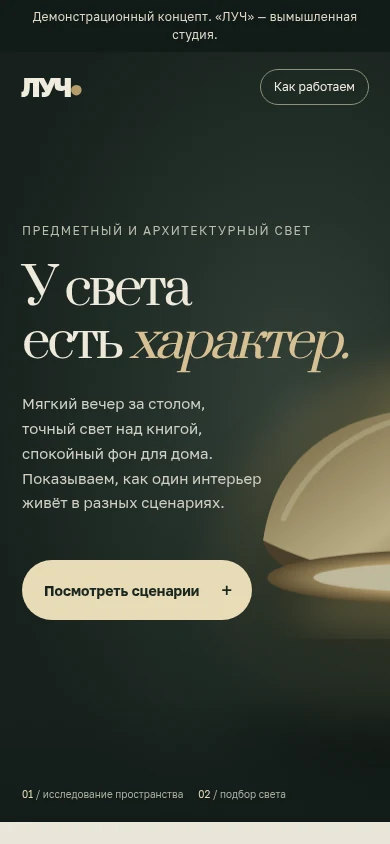
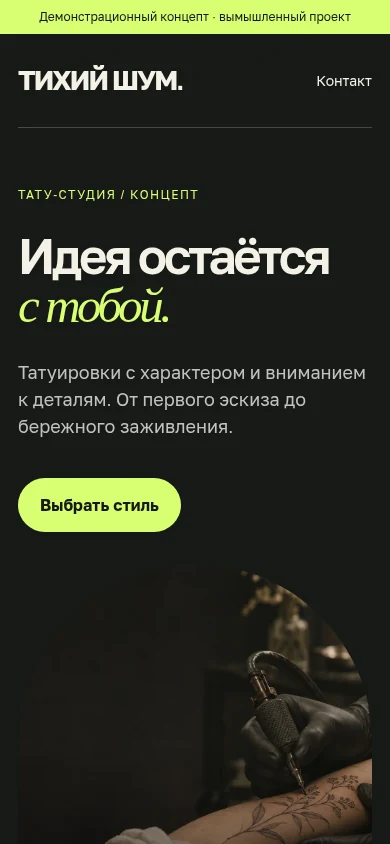
Showcase tattoo and detailing concepts

diff --git a/index.html b/index.html
@@ -51,20 +51,18 @@
     </section>
 
     <section class="work-section" id="works" aria-labelledby="works-title">
-      <div class="shell work-heading"><div><p class="section-index">Два проекта</p><h2 id="works-title">Откройте и<br>покликайте<span class="period">.</span></h2></div><p>Два проекта с разным характером. Оба можно открыть, прокликать и посмотреть с телефона. Это авторские концепты для портфолио.</p></div>
+      <div class="shell work-heading"><div><p class="section-index">Два проекта</p><h2 id="works-title">Откройте и<br>покликайте<span class="period">.</span></h2></div><p>Два проекта с разным характером. Оба можно открыть, прокликать и посмотреть с телефона. Это авторские концепты для портфолио; изображения созданы для демонстрации.</p></div>
       <div class="shell project-list">
         <article class="project project-one" aria-labelledby="project-one-title">
-          <div class="project-visual visual-one"><div class="browser"><div class="browser-top"><span class="browser-dots" aria-hidden="true"><i></i><i></i><i></i></span><span>демонстрационный проект</span><span class="browser-arrow" aria-hidden="true">↗</span></div><img src="assets/project-one-desktop.webp" width="1200" height="780" alt="Главный экран авторского концепта «ЛУЧ»"></div><div class="phone"><div class="phone-notch" aria-hidden="true"></div><img src="assets/project-one-mobile.webp" width="390" height="844" alt="Мобильная версия концепта «ЛУЧ»"></div></div>
-          <div class="project-copy"><span class="project-number">01 / Авторский концепт</span><h3 id="project-one-title">ЛУЧ</h3><p class="project-lead">Предметная витрина для студии света.</p><p class="project-detail">Сценарии освещения можно переключать прямо на странице. Тёплая типографика и предметная подача помогают рассмотреть коллекцию.</p><div class="project-meta"><span>Роль: структура, дизайн, вёрстка</span><span>HTML · CSS · JavaScript</span></div><a class="project-link" href="projects/studio-light/" target="_blank" rel="noopener noreferrer">Открыть работающий сайт <span aria-hidden="true">↗</span></a></div>
+          <div class="project-visual visual-one"><div class="browser"><div class="browser-top"><span class="browser-dots" aria-hidden="true"><i></i><i></i><i></i></span><span>демонстрационный проект</span><span class="browser-arrow" aria-hidden="true">↗</span></div><img src="assets/project-one-desktop.webp" width="1200" height="780" alt="Главный экран авторского концепта «ТИХИЙ ШУМ»"></div><div class="phone"><div class="phone-notch" aria-hidden="true"></div><img src="assets/project-one-mobile.webp" width="390" height="844" alt="Мобильная версия концепта «ТИХИЙ ШУМ»"></div></div>
+          <div class="project-copy"><span class="project-number">01 / Авторский концепт</span><h3 id="project-one-title">ТИХИЙ ШУМ</h3><p class="project-lead">Сайт для тату-студии.</p><p class="project-detail">Страница знакомит со студией и направлениями, помогает выбрать стиль и перейти к обсуждению идеи.</p><div class="project-meta"><span>Роль: структура, дизайн, вёрстка</span><span>HTML · CSS · JavaScript</span></div><a class="project-link" href="projects/atelier-ink/" target="_blank" rel="noopener noreferrer">Открыть работающий сайт <span aria-hidden="true">↗</span></a></div>
         </article>
         <article class="project project-two" aria-labelledby="project-two-title">
-          <div class="project-visual visual-two"><div class="browser"><div class="browser-top"><span class="browser-dots" aria-hidden="true"><i></i><i></i><i></i></span><span>демонстрационный проект</span><span class="browser-arrow" aria-hidden="true">↗</span></div><img src="assets/project-two-desktop.webp" width="1200" height="780" alt="Главный экран авторского концепта «РИСО»"></div><div class="phone"><div class="phone-notch" aria-hidden="true"></div><img src="assets/project-two-mobile.webp" width="390" height="844" alt="Мобильная версия концепта «РИСО»"></div></div>
-          <div class="project-copy"><span class="project-number">02 / Авторский концепт</span><h3 id="project-two-title">РИСО</h3><p class="project-lead">Графичная страница мастерской арт-печати и постеров.</p><p class="project-detail">Интерактивная галерея позволяет выбрать и рассмотреть работу. Контрастная визуальная система подходит предмету и не повторяет первый проект.</p><div class="project-meta"><span>Роль: структура, дизайн, вёрстка</span><span>HTML · CSS · JavaScript</span></div><a class="project-link" href="projects/poster-studio/" target="_blank" rel="noopener noreferrer">Открыть работающий сайт <span aria-hidden="true">↗</span></a></div>
+          <div class="project-visual visual-two"><div class="browser"><div class="browser-top"><span class="browser-dots" aria-hidden="true"><i></i><i></i><i></i></span><span>демонстрационный проект</span><span class="browser-arrow" aria-hidden="true">↗</span></div><img src="assets/project-two-desktop.webp" width="1200" height="780" alt="Главный экран авторского концепта «ФОРМА»"></div><div class="phone"><div class="phone-notch" aria-hidden="true"></div><img src="assets/project-two-mobile.webp" width="390" height="844" alt="Мобильная версия концепта «ФОРМА»"></div></div>
+          <div class="project-copy"><span class="project-number">02 / Авторский концепт</span><h3 id="project-two-title">ФОРМА</h3><p class="project-lead">Сайт для студии детейлинга.</p><p class="project-detail">Услуги разделены по направлениям, чтобы посетитель мог быстро найти подходящий уход за автомобилем.</p><div class="project-meta"><span>Роль: структура, дизайн, вёрстка</span><span>HTML · CSS · JavaScript</span></div><a class="project-link" href="projects/drive-care/" target="_blank" rel="noopener noreferrer">Открыть работающий сайт <span aria-hidden="true">↗</span></a></div>
         </article>
       </div>
     </section>
-
-    <section class="detail-section" aria-labelledby="detail-title"><div class="shell detail-inner"><div class="detail-copy"><p class="section-index">За кадром</p><h2 id="detail-title">Детали можно проверить<span class="period">.</span></h2><p>В «ЛУЧ» меняются три сценария освещения: для чтения, ужина и отдыха. В «РИСО» можно отфильтровать постеры и раскрыть каждый из них. Оба проекта работают на телефоне.</p><div class="detail-links"><a href="projects/studio-light/#scenes" target="_blank" rel="noopener noreferrer">Проверить свет <span aria-hidden="true">↗</span></a><a href="projects/poster-studio/#works" target="_blank" rel="noopener noreferrer">Открыть галерею <span aria-hidden="true">↗</span></a></div></div><div class="detail-previews"><img class="detail-img detail-luch" src="assets/luch-detail.webp" width="680" height="600" alt="Сценарий освещения в концепте «ЛУЧ»"><img class="detail-img detail-riso" src="assets/riso-detail.webp" width="680" height="600" alt="Галерея постеров в концепте «РИСО»"></div></div></section>
 
     <section class="about-section" id="about" aria-labelledby="about-title"><div class="shell about-layout"><div class="about-heading"><p class="section-index">Обо мне</p><h2 id="about-title">Привет, я<br>levvxff<span class="period">.</span></h2><p class="about-experience"><strong>3 года</strong><span>в разработке</span></p></div><div class="about-copy"><p class="about-lead">Создаю сайты и небольших Telegram-ботов для проектов, которым важно понятно рассказать о себе и быть на связи с клиентами.</p><p>До оформления разбираюсь в задаче: что человек ищет на странице, какие вопросы у него возникнут и как ему удобнее написать или записаться.</p><div class="about-offer"><div><h3>Сайт под задачу</h3><p>Структура, визуальное оформление и адаптация под телефон. Работы, услуги и контакты — там, где их легко найти.</p></div><div><h3>Бот для общения</h3><p>Меню, ответы на частые вопросы или сбор заявок. Возможности и интеграции обсудим до начала работы.</p></div></div><a class="text-link" href="https://t.me/levvxff" target="_blank" rel="noopener noreferrer">Написать мне в Telegram <span aria-hidden="true">↗</span></a></div></div></section>
 

diff --git a/projects/drive-care/index.html b/projects/drive-care/index.html
@@ -1,0 +1,3 @@
+<!doctype html><html lang="ru"><head><meta charset="utf-8"><meta name="viewport" content="width=device-width,initial-scale=1"><meta name="description" content="Демонстрационный концепт сайта"><title>ФОРМА — концепт сайта</title><style>
+ @font-face{font-family:Golos;src:url(fonts/GolosText-cyrillic.woff2)}*{box-sizing:border-box}html{scroll-behavior:smooth}body{margin:0;background:#14202a;color:#f5f5ef;font:16px/1.5 Golos,Arial,sans-serif}a{color:inherit;text-decoration:none}button{font:inherit;cursor:pointer}a:focus-visible,button:focus-visible{outline:3px solid #c4e4ff;outline-offset:4px}.notice{text-align:center;background:#c4e4ff;color:#14202a;padding:8px;font-size:12px}.wrap{width:min(1280px,calc(100% - 64px));margin:auto}header{display:flex;align-items:center;justify-content:space-between;padding:26px 0;border-bottom:1px solid #ffffff33}.brand{font-weight:bold;letter-spacing:-.07em;font-size:27px}.nav{display:flex;gap:28px;font-size:14px}.hero{min-height:620px;display:grid;grid-template-columns:1fr 1fr;gap:40px;align-items:center;padding:70px 0}.eyebrow{color:#c4e4ff;font-size:12px;letter-spacing:.12em}.hero h1{font-size:clamp(54px,6.8vw,100px);line-height:.99;letter-spacing:-.07em;font-weight:600;margin:28px 0}.hero h1 em{font-family:Georgia,serif;font-weight:400}.hero p{font-size:18px;max-width:480px;color:#ffffffbb}.button{display:inline-flex;margin-top:20px;padding:15px 22px;background:#c4e4ff;color:#14202a;font-weight:bold;border-radius:40px}.hero-visual{min-height:490px;position:relative;overflow:hidden;background:linear-gradient(140deg,#ffffff19,#0000002e);border-radius:220px 220px 12px 12px}.hero-visual:before{content:'';position:absolute;inset:15%;border:1px solid #c4e4ff;border-radius:50%;transform:rotate(-32deg)}.hero-visual:after{content:'';position:absolute;inset:25% 15%;border:30px solid #c4e4ff;border-radius:48% 52% 55% 45%;transform:rotate(-32deg);box-shadow:0 0 110px #ffffff1a}.hero-visual span{position:absolute;bottom:20px;right:22px;font-size:12px}.section{padding:100px 0}.section-head{display:flex;justify-content:space-between;align-items:end;gap:30px}.section h2,.end h2{font-size:clamp(40px,5vw,68px);letter-spacing:-.06em;line-height:1.05;margin:15px 0}.section-head p{max-width:320px;color:#ffffffaa}.filters{display:flex;gap:8px;margin:35px 0}.filter{background:none;color:inherit;border:1px solid #ffffff55;border-radius:50px;padding:9px 18px}.filter[aria-pressed=true]{background:#c4e4ff;color:#14202a;border-color:#c4e4ff}.grid{display:grid;grid-template-columns:repeat(3,1fr);gap:18px}.card[hidden]{display:none}.art{height:340px;background:#ffffff10;position:relative;overflow:hidden}.art span{position:absolute;top:20px;left:20px;color:#ffffffaa}.art-shape{position:absolute;inset:18%;border:2px solid #c4e4ff;border-radius:50%;transform:rotate(35deg)}.art-1 .art-shape{border-width:30px;border-radius:45% 55% 50% 50%}.art-2 .art-shape{border-radius:0;transform:rotate(45deg);inset:25%;box-shadow:22px 22px 0 -1px #c4e4ff}.art-3 .art-shape{border-width:14px;border-radius:50% 5%;transform:rotate(-28deg)}.card-info{display:flex;align-items:center;justify-content:space-between;padding:20px 0;border-bottom:1px solid #ffffff33}.card-info small{color:#ffffff99}.card h3{margin:3px 0;font-size:21px}.open{border:1px solid #ffffff66;border-radius:50%;width:44px;height:44px;color:inherit;background:transparent}.end{padding:90px 0;border-top:1px solid #ffffff33}.end p{color:#ffffffaa;max-width:500px}footer{display:flex;justify-content:space-between;padding:30px 0;border-top:1px solid #ffffff33;color:#ffffff99;font-size:13px}dialog{background:#f5f5ef;color:#14202a;border:0;border-radius:15px;padding:36px;max-width:480px;width:90%}dialog::backdrop{background:#000b}dialog h2{font-size:35px;letter-spacing:-.04em;margin:15px 0}dialog button{background:#14202a;color:#f5f5ef;border:0;border-radius:30px;padding:10px 18px}@media(max-width:750px){.wrap{width:calc(100% - 36px)}.nav a:first-child{display:none}.hero{grid-template-columns:1fr;padding:58px 0;gap:32px}.hero-visual{min-height:360px}.hero h1{font-size:clamp(49px,10vw,74px)}.section{padding:70px 0}.section-head{display:block}.grid{grid-template-columns:1fr}.art{height:300px}footer{gap:16px;flex-direction:column}}@media(prefers-reduced-motion:reduce){html{scroll-behavior:auto}}
+ .hero-visual{background:linear-gradient(180deg,transparent 50%,#0009),url(hero.webp) center/cover;border-radius:4px}.hero-visual:before,.hero-visual:after{display:none}.hero-visual span{z-index:1}.art{background:linear-gradient(140deg,#ffffff12,#0004)}.hero{grid-template-columns:1fr 1.35fr}.hero h1{font-weight:700;text-transform:uppercase;font-size:clamp(48px,5.7vw,88px)}.hero h1 em{font-family:inherit;font-style:normal;color:#c4e4ff}.hero-visual{border-radius:0;clip-path:polygon(12% 0,100% 0,100% 100%,0 100%)}.art{height:260px}.button,.filter{border-radius:3px}@media(max-width:750px){.hero{grid-template-columns:1fr}.hero-visual{clip-path:none}}</style></head><body><div class="notice">Демонстрационный концепт · вымышленный проект</div><header class="wrap"><a href="#" class="brand">ФОРМА.</a><nav class="nav" aria-label="Навигация"><a href="#work">Работы и услуги</a><a href="#contact">Контакт</a></nav></header><main><section class="hero wrap"><div><div class="eyebrow">ДЕТЕЙЛИНГ / КОНЦЕПТ</div><h1>Детали имеют<br><em>значение.</em></h1><p>Уход за автомобилем начинается с внимания к мелочам. Покажем, что входит в каждую услугу и как выбрать подходящую.</p><a class="button" href="#work">Посмотреть услуги</a></div><div class="hero-visual" aria-hidden="true"><span>АВТОРСКИЙ КОНЦЕПТ / 2026</span></div></section><section id="work" class="section wrap"><div class="section-head"><div><span class="eyebrow">ВЫБЕРИТЕ НАПРАВЛЕНИЕ</span><h2>Что можем сделать</h2></div><p>Понятные услуги и состав работ — чтобы вы знали, за что платите.</p></div><div class="filters" aria-label="Фильтр категорий"><button class="filter" data-filter="Все" aria-pressed="true">Все</button><button class="filter" data-filter="Кузов" aria-pressed="false">Кузов</button><button class="filter" data-filter="Салон" aria-pressed="false">Салон</button></div><div class="grid"><article class="card" data-category="Кузов"><div class="art art-1"><span>01</span><div class="art-shape"></div></div><div class="card-info"><div><small>Кузов</small><h3>Защита кузова</h3></div><button class="open" data-title="Защита кузова" data-desc="Кузов" aria-label="Подробнее: Защита кузова">+</button></div></article><article class="card" data-category="Салон"><div class="art art-2"><span>02</span><div class="art-shape"></div></div><div class="card-info"><div><small>Салон</small><h3>Чистый салон</h3></div><button class="open" data-title="Чистый салон" data-desc="Салон" aria-label="Подробнее: Чистый салон">+</button></div></article><article class="card" data-category="Кузов"><div class="art art-3"><span>03</span><div class="art-shape"></div></div><div class="card-info"><div><small>Кузов</small><h3>Полировка</h3></div><button class="open" data-title="Полировка" data-desc="Кузов" aria-label="Подробнее: Полировка">+</button></div></article></div></section><section id="contact" class="end wrap"><span class="eyebrow">ПЕРВЫЙ ШАГ</span><h2>Расскажите об автомобиле.</h2><p>Модель, состояние и пара фотографий помогут обсудить подходящий уход. Изображения и услуги показаны для демонстрации.</p><a class="button" href="https://t.me/levvxff" target="_blank" rel="noopener noreferrer">Обсудить задачу</a></section></main><footer class="wrap"><span>ФОРМА / концепт для портфолио</span><a href="../../">Портфолио levvxff</a></footer><dialog aria-labelledby="modal-title"><h2 id="modal-title"></h2><p id="modal-copy"></p><p>Это демонстрация интерфейса: изображения и названия приведены как примеры.</p><button type="button" id="close">Закрыть</button></dialog><script>const filters=[...document.querySelectorAll('.filter')],cards=[...document.querySelectorAll('.card')],modal=document.querySelector('dialog');filters.forEach(b=>b.addEventListener('click',()=>{filters.forEach(x=>x.setAttribute('aria-pressed',x===b));cards.forEach(c=>c.hidden=b.dataset.filter!=='Все'&&c.dataset.category!==b.dataset.filter)}));document.querySelectorAll('.open').forEach(b=>b.addEventListener('click',()=>{document.querySelector('#modal-title').textContent=b.dataset.title;document.querySelector('#modal-copy').textContent=b.dataset.desc;modal.showModal()}));document.querySelector('#close').addEventListener('click',()=>modal.close());</script></body></html>

diff --git a/projects/atelier-ink/index.html b/projects/atelier-ink/index.html
@@ -1,0 +1,3 @@
+<!doctype html><html lang="ru"><head><meta charset="utf-8"><meta name="viewport" content="width=device-width,initial-scale=1"><meta name="description" content="Демонстрационный концепт сайта"><title>ТИХИЙ ШУМ — концепт сайта</title><style>
+ @font-face{font-family:Golos;src:url(fonts/GolosText-cyrillic.woff2)}*{box-sizing:border-box}html{scroll-behavior:smooth}body{margin:0;background:#171a16;color:#f4f1e7;font:16px/1.5 Golos,Arial,sans-serif}a{color:inherit;text-decoration:none}button{font:inherit;cursor:pointer}a:focus-visible,button:focus-visible{outline:3px solid #d8ff73;outline-offset:4px}.notice{text-align:center;background:#d8ff73;color:#171a16;padding:8px;font-size:12px}.wrap{width:min(1280px,calc(100% - 64px));margin:auto}header{display:flex;align-items:center;justify-content:space-between;padding:26px 0;border-bottom:1px solid #ffffff33}.brand{font-weight:bold;letter-spacing:-.07em;font-size:27px}.nav{display:flex;gap:28px;font-size:14px}.hero{min-height:620px;display:grid;grid-template-columns:1fr 1fr;gap:40px;align-items:center;padding:70px 0}.eyebrow{color:#d8ff73;font-size:12px;letter-spacing:.12em}.hero h1{font-size:clamp(54px,6.8vw,100px);line-height:.99;letter-spacing:-.07em;font-weight:600;margin:28px 0}.hero h1 em{font-family:Georgia,serif;font-weight:400}.hero p{font-size:18px;max-width:480px;color:#ffffffbb}.button{display:inline-flex;margin-top:20px;padding:15px 22px;background:#d8ff73;color:#171a16;font-weight:bold;border-radius:40px}.hero-visual{min-height:490px;position:relative;overflow:hidden;background:linear-gradient(140deg,#ffffff19,#0000002e);border-radius:220px 220px 12px 12px}.hero-visual:before{content:'';position:absolute;inset:15%;border:1px solid #d8ff73;border-radius:50%;transform:rotate(-32deg)}.hero-visual:after{content:'';position:absolute;inset:25% 15%;border:30px solid #d8ff73;border-radius:48% 52% 55% 45%;transform:rotate(-32deg);box-shadow:0 0 110px #ffffff1a}.hero-visual span{position:absolute;bottom:20px;right:22px;font-size:12px}.section{padding:100px 0}.section-head{display:flex;justify-content:space-between;align-items:end;gap:30px}.section h2,.end h2{font-size:clamp(40px,5vw,68px);letter-spacing:-.06em;line-height:1.05;margin:15px 0}.section-head p{max-width:320px;color:#ffffffaa}.filters{display:flex;gap:8px;margin:35px 0}.filter{background:none;color:inherit;border:1px solid #ffffff55;border-radius:50px;padding:9px 18px}.filter[aria-pressed=true]{background:#d8ff73;color:#171a16;border-color:#d8ff73}.grid{display:grid;grid-template-columns:repeat(3,1fr);gap:18px}.card[hidden]{display:none}.art{height:340px;background:#ffffff10;position:relative;overflow:hidden}.art span{position:absolute;top:20px;left:20px;color:#ffffffaa}.art-shape{position:absolute;inset:18%;border:2px solid #d8ff73;border-radius:50%;transform:rotate(35deg)}.art-1 .art-shape{border-width:30px;border-radius:45% 55% 50% 50%}.art-2 .art-shape{border-radius:0;transform:rotate(45deg);inset:25%;box-shadow:22px 22px 0 -1px #d8ff73}.art-3 .art-shape{border-width:14px;border-radius:50% 5%;transform:rotate(-28deg)}.card-info{display:flex;align-items:center;justify-content:space-between;padding:20px 0;border-bottom:1px solid #ffffff33}.card-info small{color:#ffffff99}.card h3{margin:3px 0;font-size:21px}.open{border:1px solid #ffffff66;border-radius:50%;width:44px;height:44px;color:inherit;background:transparent}.end{padding:90px 0;border-top:1px solid #ffffff33}.end p{color:#ffffffaa;max-width:500px}footer{display:flex;justify-content:space-between;padding:30px 0;border-top:1px solid #ffffff33;color:#ffffff99;font-size:13px}dialog{background:#f4f1e7;color:#171a16;border:0;border-radius:15px;padding:36px;max-width:480px;width:90%}dialog::backdrop{background:#000b}dialog h2{font-size:35px;letter-spacing:-.04em;margin:15px 0}dialog button{background:#171a16;color:#f4f1e7;border:0;border-radius:30px;padding:10px 18px}@media(max-width:750px){.wrap{width:calc(100% - 36px)}.nav a:first-child{display:none}.hero{grid-template-columns:1fr;padding:58px 0;gap:32px}.hero-visual{min-height:360px}.hero h1{font-size:clamp(49px,10vw,74px)}.section{padding:70px 0}.section-head{display:block}.grid{grid-template-columns:1fr}.art{height:300px}footer{gap:16px;flex-direction:column}}@media(prefers-reduced-motion:reduce){html{scroll-behavior:auto}}
+ .hero-visual{background:linear-gradient(180deg,transparent 50%,#0009),url(hero.webp) center/cover;border-radius:4px}.hero-visual:before,.hero-visual:after{display:none}.hero-visual span{z-index:1}.art{background:linear-gradient(140deg,#ffffff12,#0004)}.hero h1 em{color:#d8ff73}.hero-visual{border-radius:260px 260px 3px 3px}.card:nth-child(2){margin-top:48px}@media(max-width:750px){.card:nth-child(2){margin-top:0}}</style></head><body><div class="notice">Демонстрационный концепт · вымышленный проект</div><header class="wrap"><a href="#" class="brand">ТИХИЙ ШУМ.</a><nav class="nav" aria-label="Навигация"><a href="#work">Работы и услуги</a><a href="#contact">Контакт</a></nav></header><main><section class="hero wrap"><div><div class="eyebrow">ТАТУ-СТУДИЯ / КОНЦЕПТ</div><h1>Идея остаётся<br><em>с тобой.</em></h1><p>Татуировки с характером и вниманием к деталям. От первого эскиза до бережного заживления.</p><a class="button" href="#work">Выбрать стиль</a></div><div class="hero-visual" aria-hidden="true"><span>АВТОРСКИЙ КОНЦЕПТ / 2026</span></div></section><section id="work" class="section wrap"><div class="section-head"><div><span class="eyebrow">ВЫБЕРИТЕ НАПРАВЛЕНИЕ</span><h2>Направления тату</h2></div><p>Выберите направление, чтобы посмотреть, как может быть устроена навигация по стилям.</p></div><div class="filters" aria-label="Фильтр категорий"><button class="filter" data-filter="Все" aria-pressed="true">Все</button><button class="filter" data-filter="Графика" aria-pressed="false">Графика</button><button class="filter" data-filter="Минимализм" aria-pressed="false">Минимализм</button></div><div class="grid"><article class="card" data-category="Графика"><div class="art art-1"><span>01</span><div class="art-shape"></div></div><div class="card-info"><div><small>Графика</small><h3>Тонкие линии</h3></div><button class="open" data-title="Тонкие линии" data-desc="Графика" aria-label="Подробнее: Тонкие линии">+</button></div></article><article class="card" data-category="Минимализм"><div class="art art-2"><span>02</span><div class="art-shape"></div></div><div class="card-info"><div><small>Минимализм</small><h3>Личная история</h3></div><button class="open" data-title="Личная история" data-desc="Минимализм" aria-label="Подробнее: Личная история">+</button></div></article><article class="card" data-category="Графика"><div class="art art-3"><span>03</span><div class="art-shape"></div></div><div class="card-info"><div><small>Графика</small><h3>Цвет и форма</h3></div><button class="open" data-title="Цвет и форма" data-desc="Графика" aria-label="Подробнее: Цвет и форма">+</button></div></article></div></section><section id="contact" class="end wrap"><span class="eyebrow">ПЕРВЫЙ ШАГ</span><h2>Расскажите о своей идее.</h2><p>Можно начать с пары слов, картинки или настроения. В этом концепте показано, как может выглядеть страница студии.</p><a class="button" href="https://t.me/levvxff" target="_blank" rel="noopener noreferrer">Обсудить идею</a></section></main><footer class="wrap"><span>ТИХИЙ ШУМ / концепт для портфолио</span><a href="../../">Портфолио levvxff</a></footer><dialog aria-labelledby="modal-title"><h2 id="modal-title"></h2><p id="modal-copy"></p><p>Это демонстрация интерфейса: изображения и названия приведены как примеры.</p><button type="button" id="close">Закрыть</button></dialog><script>const filters=[...document.querySelectorAll('.filter')],cards=[...document.querySelectorAll('.card')],modal=document.querySelector('dialog');filters.forEach(b=>b.addEventListener('click',()=>{filters.forEach(x=>x.setAttribute('aria-pressed',x===b));cards.forEach(c=>c.hidden=b.dataset.filter!=='Все'&&c.dataset.category!==b.dataset.filter)}));document.querySelectorAll('.open').forEach(b=>b.addEventListener('click',()=>{document.querySelector('#modal-title').textContent=b.dataset.title;document.querySelector('#modal-copy').textContent=b.dataset.desc;modal.showModal()}));document.querySelector('#close').addEventListener('click',()=>modal.close());</script></body></html>

diff --git a/README.md b/README.md
@@ -2,7 +2,7 @@
 
 Портфолио: https://ccczxccc.github.io/portfolio/
 
-Здесь представлены два авторских демонстрационных проекта: «ЛУЧ» и «РИСО». Они показывают структуру, дизайн, адаптивную вёрстку и работу интерфейсов. Это концепты, а не клиентские заказы.
+Здесь представлены два авторских демонстрационных проекта: «ТИХИЙ ШУМ» и «ФОРМА». Они показывают структуру, дизайн, адаптивную вёрстку и работу интерфейсов. Это концепты, а не клиентские заказы.
 
 Связь: [@levvxff](https://t.me/levvxff).
 
